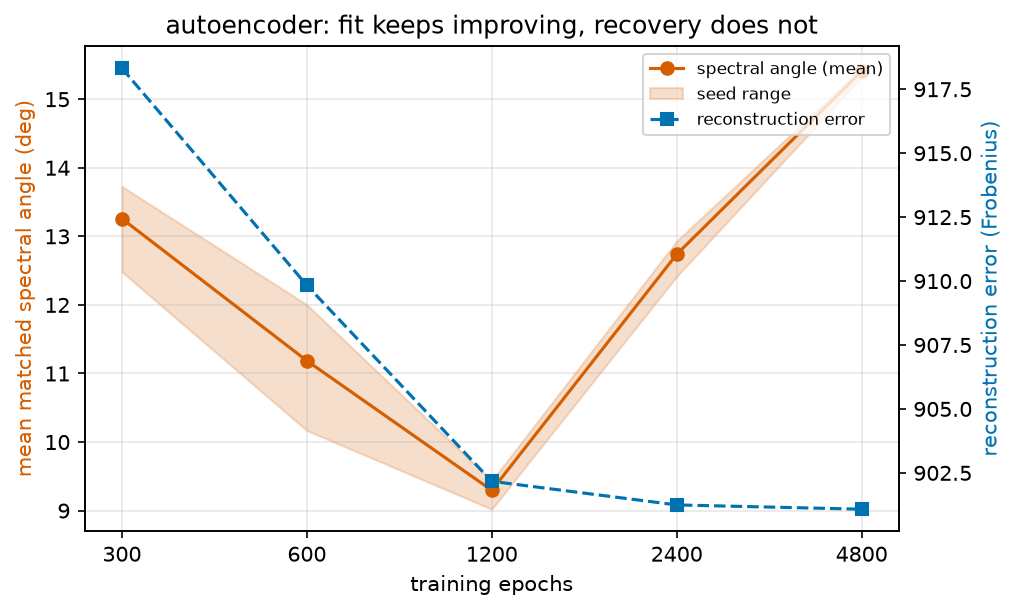
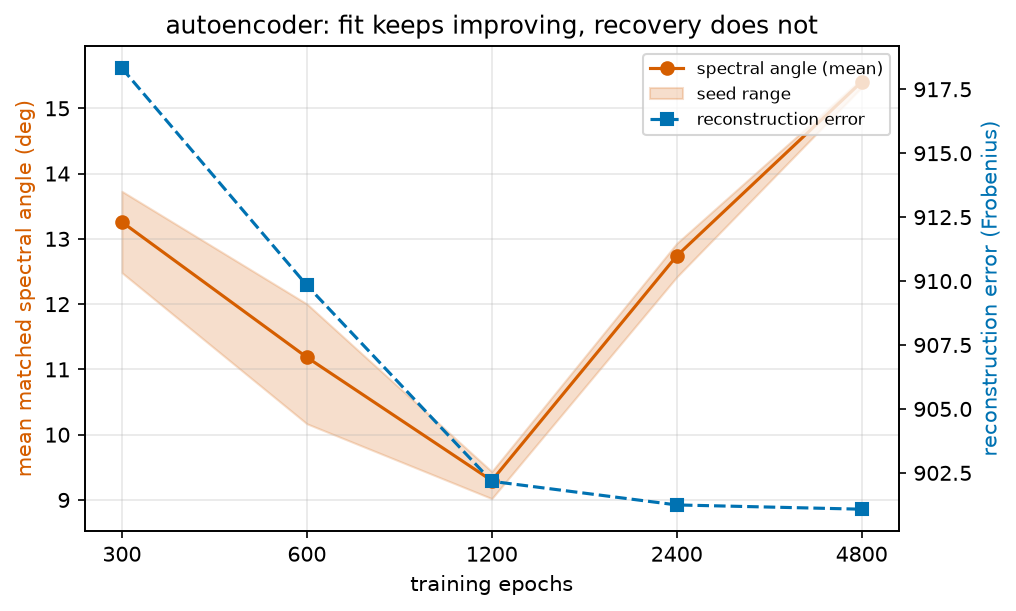
fix: figure layout defects, regenerate affected figures and notebook
scene_overview had colorbar tick labels colliding with the endmember
panel's y axis (now constrained layout); ae_epochs clipped the seed-range
band at the top axis limit (now explicit headroom); hero rows sat too
close (wider hspace). Notebook re-executed against the updated plotting
code with identical numbers and zero error cells.

diff --git a/src/eelsunmix/plots.py b/src/eelsunmix/plots.py
@@ -44,7 +44,7 @@ def plot_scene(scene: EELSScene, path: str | Path) -> None:
         path: Output image path.
     """
     k = scene.abundances.shape[0]
-    fig, axes = plt.subplots(1, k + 2, figsize=(3.1 * (k + 2), 3.0))
+    fig, axes = plt.subplots(1, k + 2, figsize=(3.4 * (k + 2), 3.0), layout="constrained")
     im = axes[0].imshow(scene.cube.sum(axis=2), cmap="gray")
     axes[0].set_title("total counts")
     fig.colorbar(im, ax=axes[0], fraction=0.046)
@@ -61,9 +61,7 @@ def plot_scene(scene: EELSScene, path: str | Path) -> None:
     axes[-1].set_ylabel("intensity (unit mean)")
     axes[-1].set_title("true endmembers")
     axes[-1].legend(fontsize=8)
-    fig.suptitle(
-        f"dose {scene.config.dose:g} counts/px, drift {scene.config.drift_channels:g} ch", y=1.02
-    )
+    fig.suptitle(f"dose {scene.config.dose:g} counts/px, drift {scene.config.drift_channels:g} ch")
     _save(fig, path)
 
 
@@ -82,7 +80,7 @@ def plot_hero(scene: EELSScene, decompositions: dict[str, Decomposition], path: 
     k = scene.endmembers.shape[0]
     n_rows = 2 + len(decompositions)
     fig = plt.figure(figsize=(3.4 * k, 2.7 * n_rows))
-    gs = fig.add_gridspec(n_rows, k, hspace=0.35, wspace=0.25)
+    gs = fig.add_gridspec(n_rows, k, hspace=0.45, wspace=0.25)
 
     matches = {
         name: match_endmembers(dec.spectra, scene.endmembers)
@@ -264,6 +262,7 @@ def plot_ae_epochs(payload: dict[str, Any], path: str | Path) -> None:
     fig, ax = plt.subplots(figsize=(7, 4.2))
     ax.plot(epochs, sad_mean, marker="o", color="#d55e00", label="spectral angle (mean)")
     ax.fill_between(epochs, sad_min, sad_max, color="#d55e00", alpha=0.2, label="seed range")
+    ax.set_ylim(min(sad_min) - 0.5, max(sad_max) + 0.5)
     ax.set_xscale("log")
     ax.set_xticks(epochs, [str(e) for e in epochs])
     ax.minorticks_off()